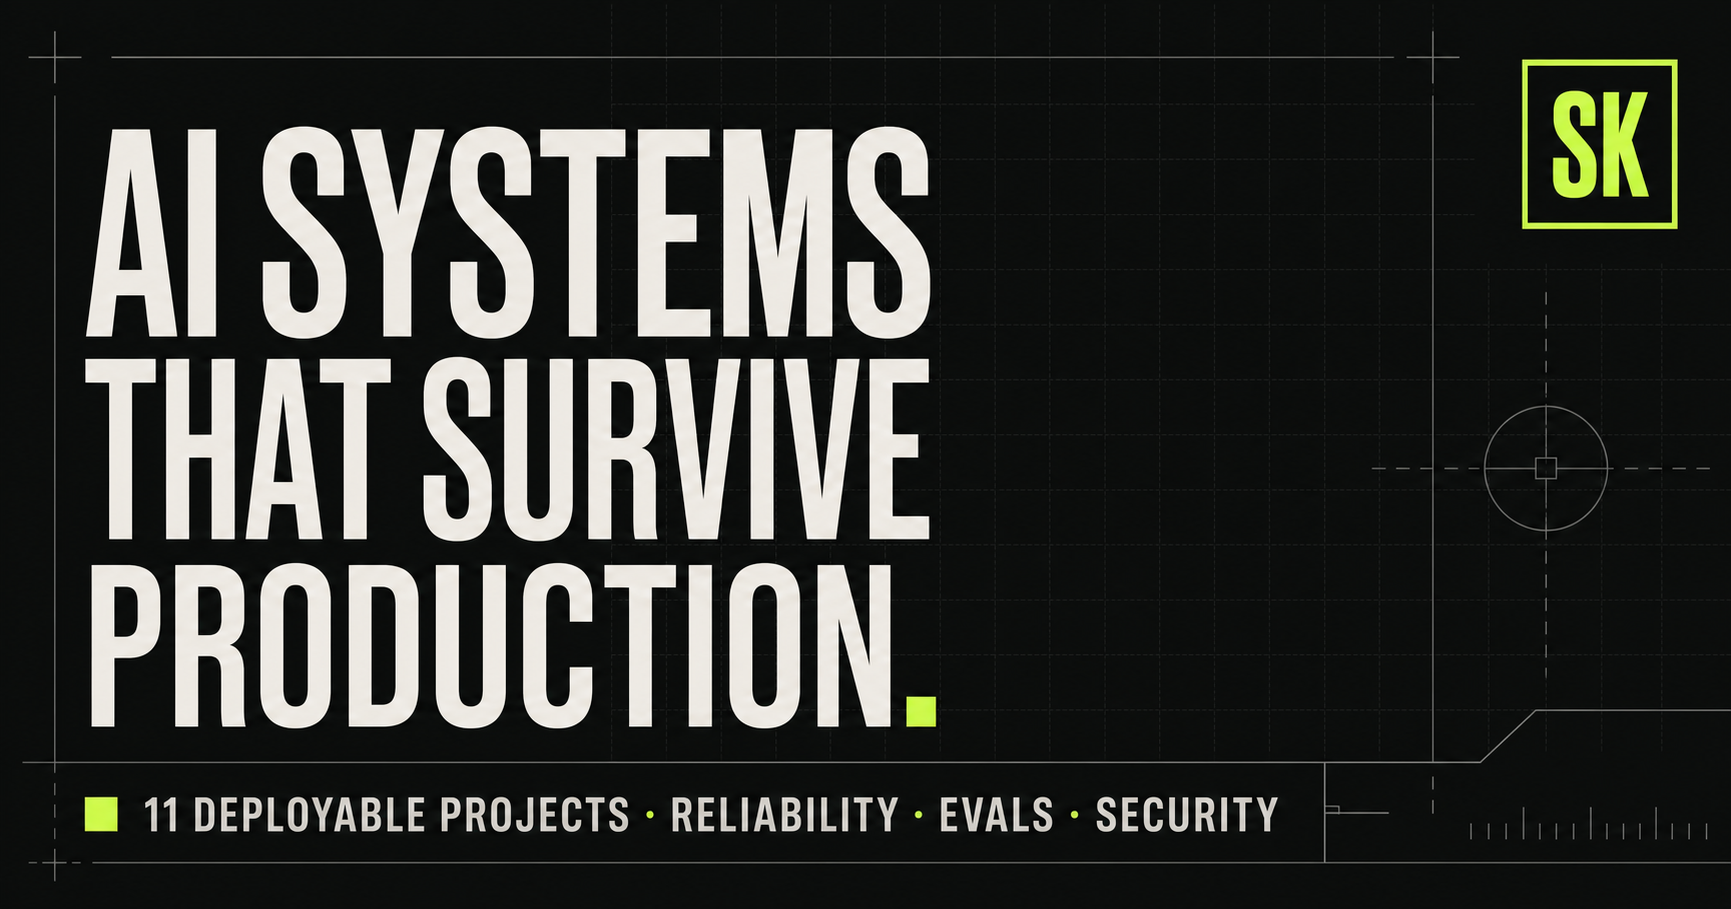
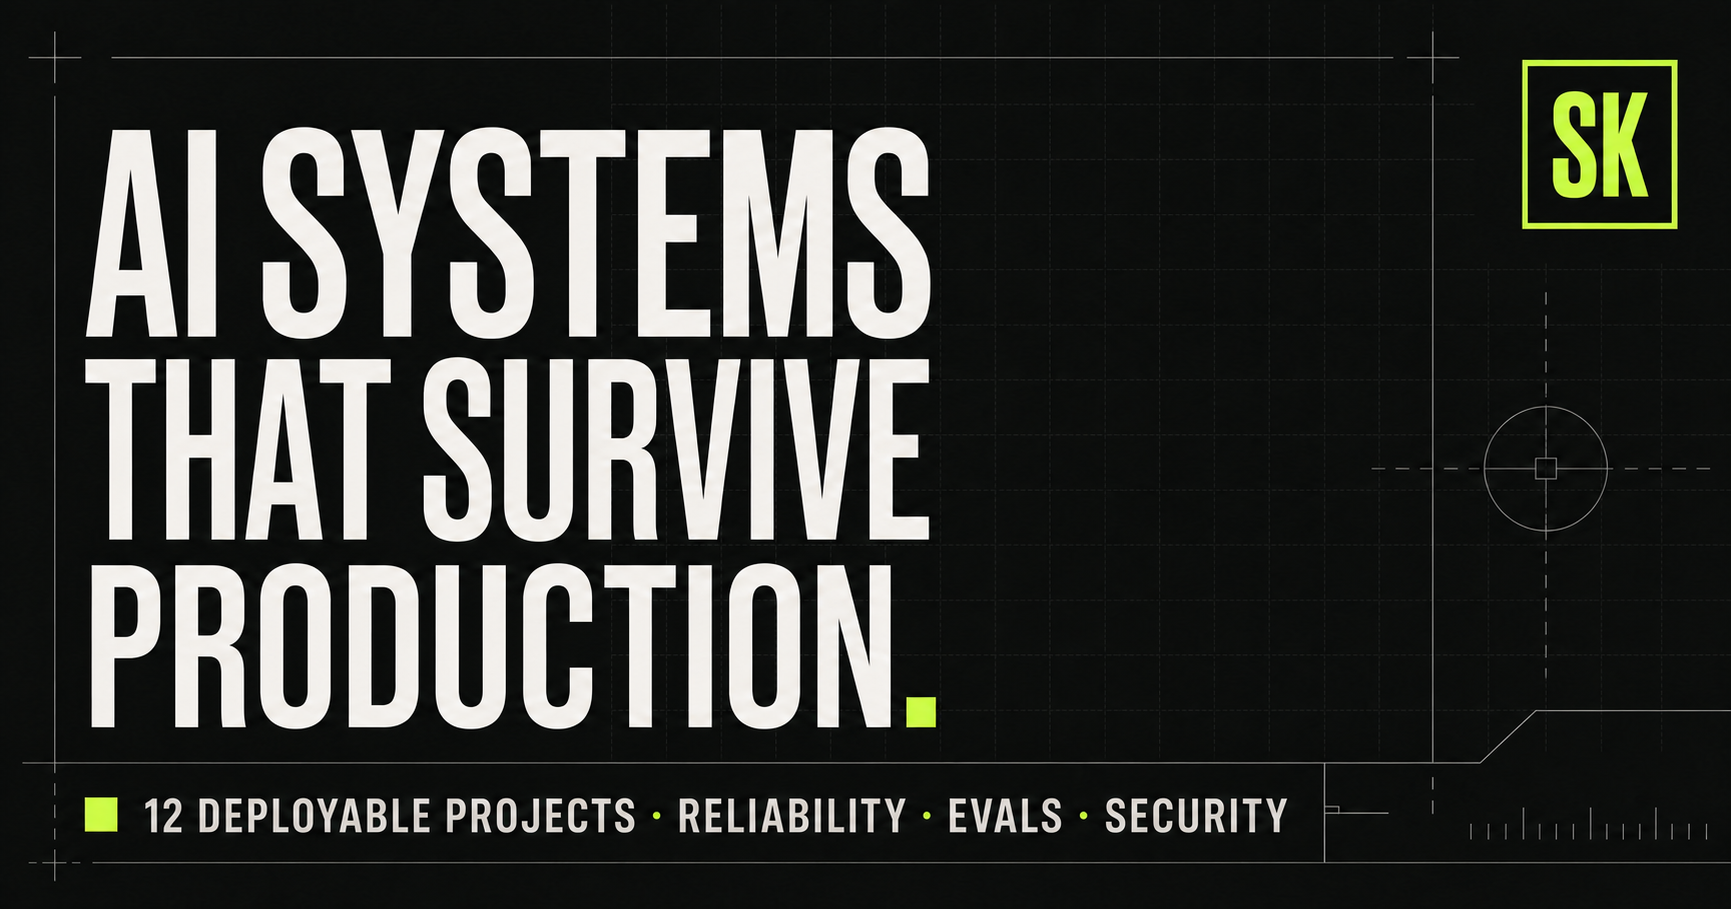
Feature ARIA in production portfolio

Changed region(s): [[0.0936, 0.8317, 0.7487, 0.9241], [0.8735, 0.0616, 0.9671, 0.1232], [0.7487, 0.8317, 0.8423, 0.8625]]

diff --git a/app/page.tsx b/app/page.tsx
@@ -10,6 +10,7 @@ const projects = [
   { n: "09", title: "Traced Deployment Pipeline", proof: "Failures explain themselves", text: "Dockerized service with OpenTelemetry traces, Prometheus alerts, cost metrics, and Grafana dashboards.", tags: ["OpenTelemetry", "Docker", "Grafana"], repo: "traced-deployment-pipeline" },
   { n: "10", title: "Security Guardrails", proof: "Defense in depth at every boundary", text: "Prompt-injection detection, bidirectional PII redaction, safe fingerprints, and monitor/block modes.", tags: ["Security", "PII", "ASGI"], repo: "security-guardrail-middleware" },
   { n: "11", title: "Public Architecture", proof: "Decisions are as reviewable as code", text: "System map, trust boundaries, ADRs, verification protocol, and a five-minute demo walkthrough.", tags: ["Architecture", "ADRs", "Benchmarks"], repo: "ai-production-architecture" },
+  { n: "12", title: "ARIA AI-SRE Platform", proof: "Incidents move from signal to controlled recovery", text: "Open-source incident investigation with Kubernetes telemetry, RAG runbooks, policy checks, approval-gated self-healing, and recovery validation.", tags: ["AI-SRE", "Kubernetes", "Self-healing"], repo: "aria" },
 ];
 
 const stages = ["Protect", "Validate", "Ground", "Authorize", "Observe", "Evaluate"];
@@ -26,11 +27,11 @@ export default function Home() {
         <p className="eyebrow"><span className="status-dot" /> Available for AI engineering work</p>
         <h1>I build AI systems<br />that survive <em>production.</em></h1>
         <div className="hero-bottom">
-          <p>Eleven deployable projects covering reliability, cost, grounding, evaluation, inference, observability, and security—built as working evidence, not slideware.</p>
+          <p>Twelve deployable projects covering reliability, cost, grounding, evaluation, inference, observability, security, and AI-SRE—built as working evidence, not slideware.</p>
           <div className="hero-actions"><a className="button primary" href="#work">Explore the systems ↓</a><a className="button" href="https://github.com/KumarSravan77" target="_blank" rel="noreferrer">View GitHub ↗</a></div>
         </div>
         <div className="signal" aria-label="Portfolio statistics">
-          <div><strong>11</strong><span>Production projects</span></div>
+          <div><strong>12</strong><span>Production projects</span></div>
           <div><strong>10</strong><span>Control layers</span></div>
           <div><strong>01</strong><span>Coherent platform</span></div>
         </div>

diff --git a/app/layout.tsx b/app/layout.tsx
@@ -14,7 +14,7 @@ const geistMono = Geist_Mono({
 });
 
 const title = "Sravan Kumar — Production AI Engineer";
-const description = "Eleven deployable projects proving production AI engineering across reliability, cost, grounding, evaluation, inference, observability, and security.";
+const description = "Twelve deployable projects proving production AI engineering across reliability, cost, grounding, evaluation, inference, observability, security, and AI-SRE.";
 
 export async function generateMetadata(): Promise<Metadata> {
   const requestHeaders = await headers();

diff --git a/README.md b/README.md
@@ -2,10 +2,10 @@
 
 **Public portfolio:** https://kumarsravan77.github.io/production-ai-portfolio/
 
-A responsive, evidence-first portfolio presenting eleven independently
+A responsive, evidence-first portfolio presenting twelve independently
 deployable production AI engineering projects across API reliability, cost
 controls, structured output, RAG, approvals, streaming UX, evaluation, local
-inference, observability, security, and architecture.
+inference, observability, security, architecture, and AI-SRE.
 
 ## Local development
 
